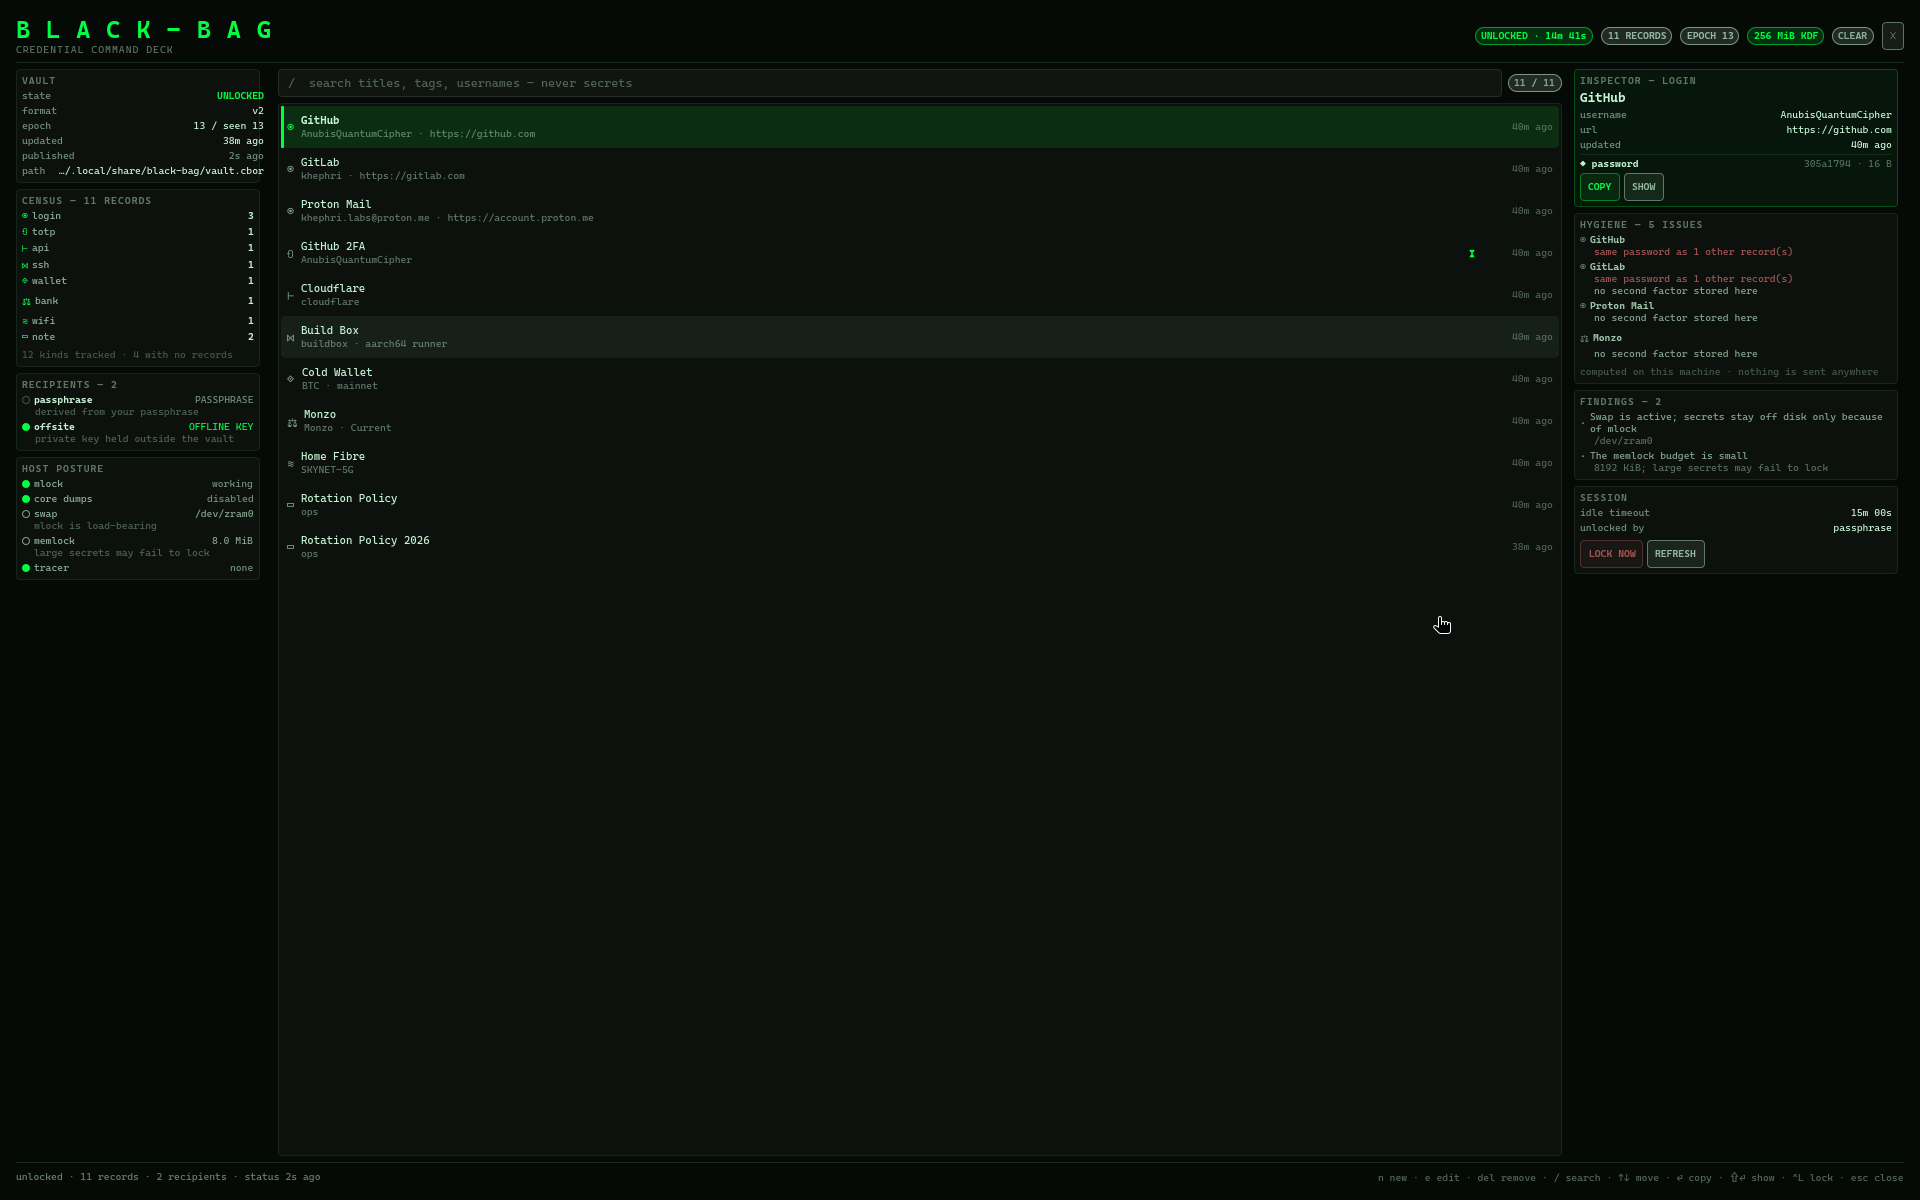
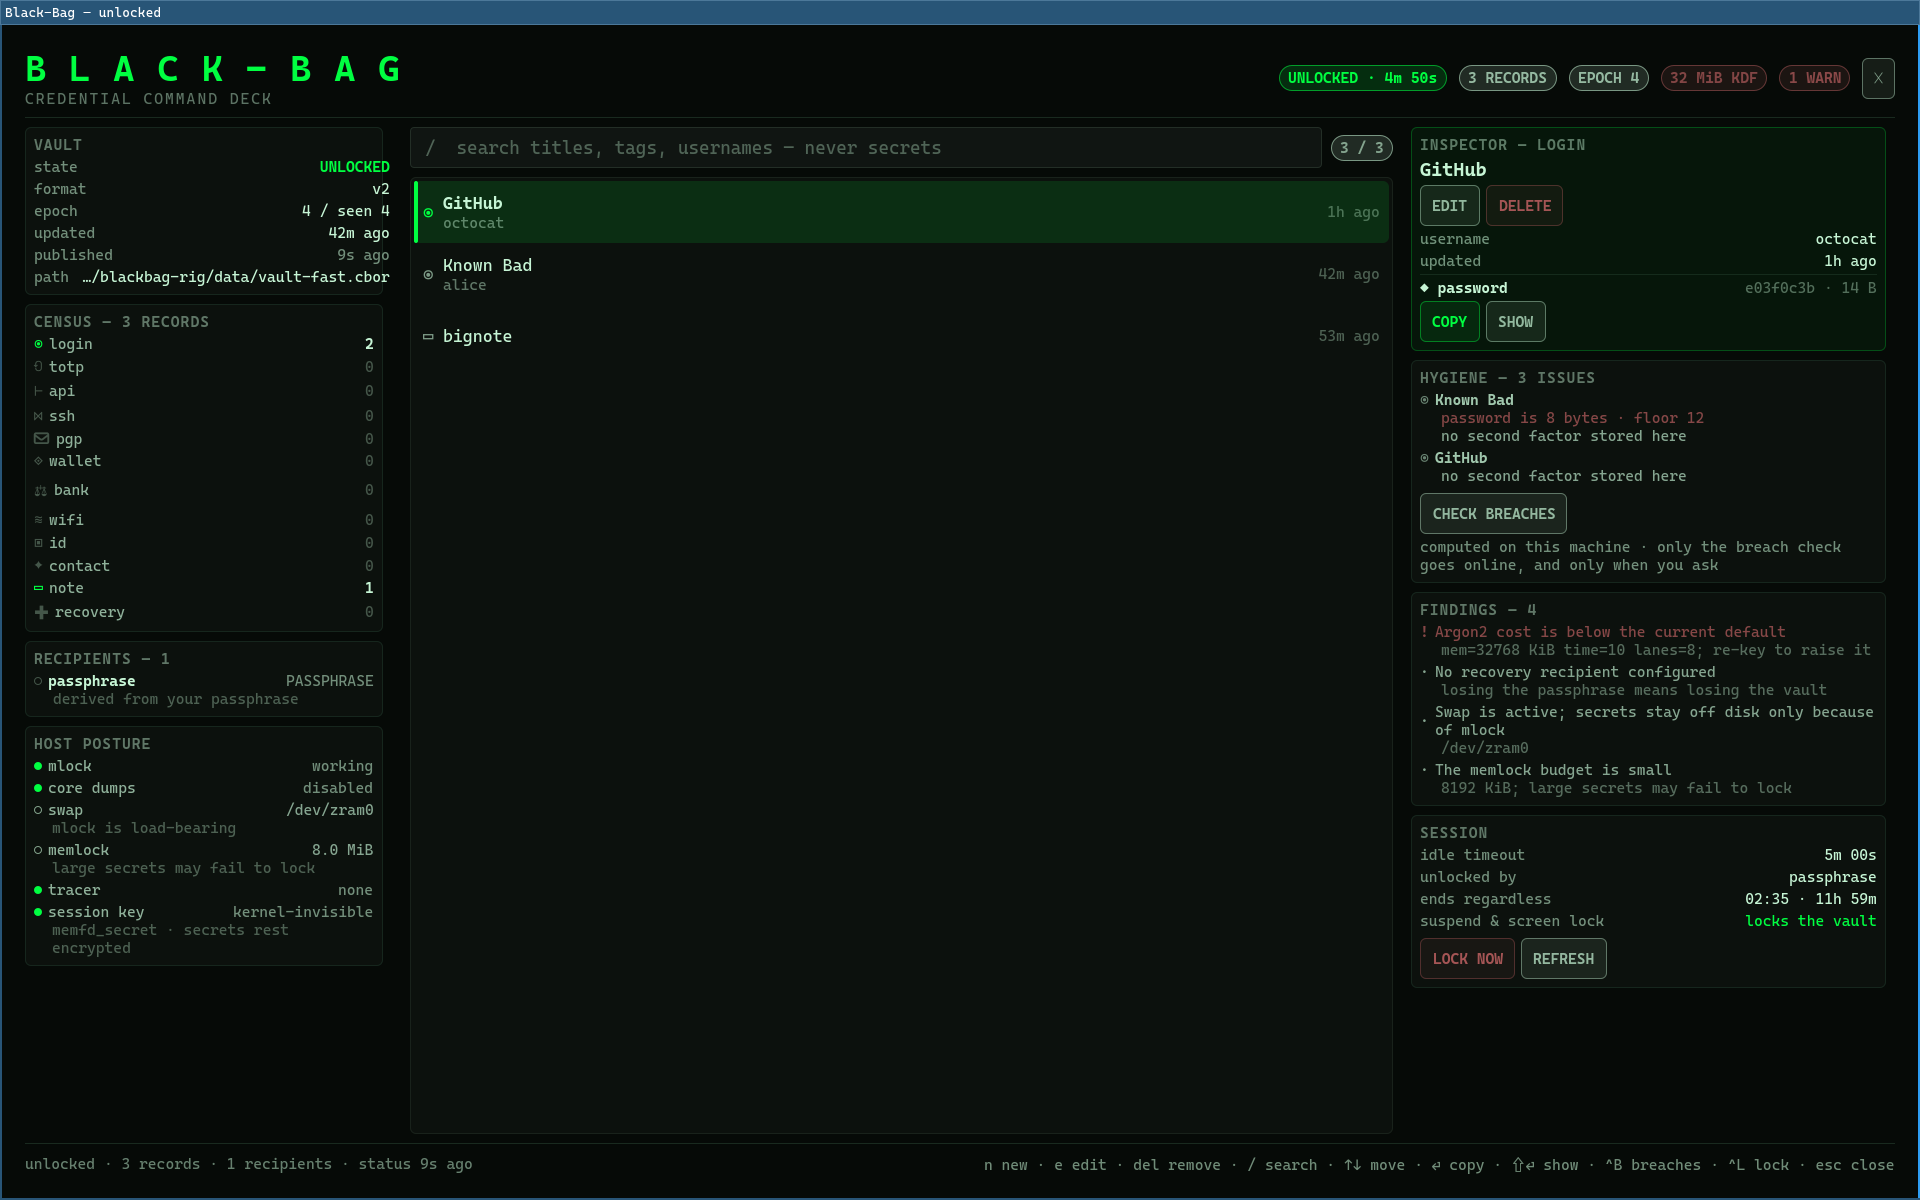
README and SECURITY for 2.5.0; refreshed screenshots
Claude-Session: https://claude.ai/code/session_018xuof8DXvmLCZmByhBvWUA

diff --git a/README.md b/README.md
@@ -74,6 +74,50 @@ anywhere.
 
 ---
 
+## What 2.5.0 changed, and how each item was found
+
+Every one of these came from running the product against itself rather than
+reading it. The full account, with the test that pins each, is in
+[`CHANGELOG.md`](CHANGELOG.md).
+
+**Every resting secret is ciphertext in memory.** Each record field and the
+vault's data key rest sealed under a 32-byte per-process session key. The key
+lives in `memfd_secret` memory — removed from the kernel's own direct map,
+never swapped, never dumped, never in a hibernation image — with a locked page
+as the fallback, and the deck says which you got. Plaintext exists only while a
+field is in use, in a locked arena, and is wiped when the use ends. A test reads
+`/proc/self/mem` across every writable mapping and asserts a resting secret is
+found nowhere. Page-locking every secret was the old design; it had a hole
+(`mlock` is page-granular and not reference-counted, so a neighbour's drop
+unlocked your page), and it fought an 8 MiB budget the new design does not need.
+
+**The clipboard tells the truth.** The old `wl-copy` path never cleared — the
+thread that was going to kill it died with the command — and it offered no
+sensitive hint, so Omarchy's own clipboard history recorded every password in a
+plaintext file. Copies are now served by a detached, memory-locked helper that
+offers `x-kde-passwordManagerHint` beside the text, clears on time only if the
+selection is still ours, and does not say "copied" until the compositor has been
+seen offering the value.
+
+**The vault seals with the machine.** Suspend and `loginctl lock-session` lock
+it through a hand-written minimal D-Bus subscription to logind; Omarchy's own
+screen lock locks it through the shell's lock service. A hard session ceiling
+(12 h by default) ends an unlock however busy it was. A silent socket connection
+can no longer stall the agent.
+
+**Breach checks that keep the hash at home.** `agent breach --online`, or the
+deck's two-step CHECK BREACHES, sends five-character SHA-1 prefixes to Pwned
+Passwords by k-anonymity, fetches the buckets with `curl`, and matches inside
+the agent — which has no network access at all. Exposures fold into the hygiene
+report until lock.
+
+**Import and export.** Bitwarden, KeePassXC, Firefox, Chrome and any CSV in;
+JSON or KeePassXC CSV out, plaintext by declaration and 0600 by construction.
+
+![The breach check, done](docs/screenshots/breach.png)
+
+---
+
 ## What is different from `black-bagg` 0.4.10
 
 **Post-quantum protection that actually protects something.** 0.4.x generated an
@@ -162,8 +206,12 @@ black-bag add login --title GitHub --attr username=octocat
 black-bag list
 black-bag get <uuid> --reveal password --to clipboard
 
-black-bag doctor                     # vault + host posture
+black-bag doctor                     # vault + host posture, including where the session key lives
 black-bag rekey --change-passphrase
+
+black-bag agent breach --online      # k-anonymity check against Pwned Passwords
+black-bag import --from bitwarden.json --format bitwarden --dry-run
+black-bag export --to out.csv --format keepassxc --plaintext-ok
 ```
 
 Coming from `black-bagg`:
@@ -201,8 +249,9 @@ with several numbers and addresses, secure notes, and recovery kits.
 
 ## Credential hygiene
 
-Computed entirely on this machine. There is no network call in this crate and
-adding one would defeat the point.
+Computed on this machine, with one declared exception: the breach check, which
+runs only when you ask, sends only five-character hash prefixes, and runs from
+the CLI through `curl` — the agent process cannot open a network socket.
 
 The interesting one is **reuse detection**. Every secret field carries a
 non-reversible 8-character BLAKE3 handle, domain-separated by field name, so two
@@ -233,17 +282,21 @@ Honest limits, all of which are in the module docs:
 
 - **Left rail** — vault state, format, epoch against the witness, a twelve-kind
   census, recipients (marked by whether their private key is held offline), and
-  host posture: mlock, core dumps, swap, memlock budget, tracer.
+  host posture: mlock, core dumps, swap, memlock budget, tracer, and where the
+  session key lives.
 - **Centre** — the unlock panel when sealed; a searchable record table when open.
   Search covers titles, tags, and usernames, and by construction cannot reach
   secrets.
-- **Right rail** — inspector for the selected record, findings worst-first, and
-  session controls. TOTP codes come with a countdown arc that turns red in the
-  last five seconds.
+- **Right rail** — inspector for the selected record, hygiene worst-first with
+  the two-step breach check, findings, and the session: idle timeout, the hour
+  the session ends regardless, why it last locked, and whether suspend and the
+  screen lock are being watched. TOTP codes come with a countdown arc that turns
+  red in the last five seconds.
 
 Keys: `n` new · `e` edit · `Del` remove · `/` search · `↑↓` move · `⏎` copy ·
-`⇧⏎` show · `^L` lock · `Esc` close. In the editor: `Tab` moves · `^G` generates
-· `^⏎` saves · `Esc` cancels.
+`⇧⏎` show · `^B` breaches · `^L` lock · `Esc` close. In the editor: `Tab` moves
+· `^G` generates · `^⏎` saves · `Esc` cancels. Every button takes `Tab` focus
+and answers `Space` or `Enter`.
 
 ### Where secrets are, and are not
 
@@ -252,8 +305,8 @@ Keys: `n` new · `e` edit · `Del` remove · `/` search · `↑↓` move · `⏎
 | `status.json` in `$XDG_RUNTIME_DIR` | **Never.** No titles, tags, counts, or values — only posture, parameters, recipient labels, and lock state. There is a test that asserts this. |
 | Bar widget | Never. Reads only `status.json`. |
 | Cockpit | Only during an explicit `SHOW`, on a visible countdown, then cleared. `COPY` goes straight to the clipboard and never renders. |
-| Agent | Holds the data key in page-locked memory while unlocked, behind a `0600` socket in a `0700` directory, with `SO_PEERCRED` checked on every connection. |
-| Clipboard | For the configured interval (30 s default), then wiped. |
+| Agent | Holds the data key and every record sealed under a session key that lives in `memfd_secret` memory, behind a `0600` socket in a `0700` directory, with `SO_PEERCRED` checked and a 3-second budget on every connection. |
+| Clipboard | For the configured interval (30 s default), offered with the sensitive hint so clipboard managers skip it, then cleared — unless something else has been copied since, which is left alone. |
 
 The record *metadata* the cockpit shows arrives over the agent socket and lives
 in the shell's memory, never on disk. Secret fields are shown as a name, a size,
@@ -266,8 +319,16 @@ a password without either being displayed.
 
 - **The witness is a tripwire.** It catches restored backups, sync conflicts, and
   snapshot rollbacks. It does not stop an attacker who can write both files.
-- **`mlock` is best-effort.** This box allows 8 MiB (2048 pages). Failures are
-  reported in `doctor` and the cockpit rather than swallowed.
+- **The session key's home is reported, not assumed.** `memfd_secret` where the
+  kernel offers it, a locked page otherwise, and "unlocked" — loudly — if even
+  that failed. Secret memory blocks hibernation system-wide while it is held;
+  `BLACK_BAG_NO_SECRETMEM=1` opts out.
+- **The breach check is the one thing that goes online.** It sends
+  five-character hash prefixes and nothing else, and only when asked. Nothing
+  else in this program opens a network socket, and the agent's unit forbids it.
+- **The sleep watcher takes no inhibitor lock.** The vault locks as soon as the
+  agent is scheduled after logind's signal — milliseconds — but "before the
+  kernel sleeps" is not guaranteed.
 - **The host can still betray you.** Core dumps are disabled for our own process,
   but `core_pattern` on this machine pipes to systemd-coredump for everything
   else, and zram swap is active. The cockpit shows both rather than claiming

diff --git a/SECURITY.md b/SECURITY.md
@@ -32,6 +32,14 @@ Particularly interesting:
 - Reaching the agent socket as a different user.
 - A generated password with less entropy than the generator reports.
 - Hygiene reporting reuse that is not reuse, or missing reuse that is.
+- A resting secret's plaintext appearing in the process's writable memory
+  while the vault is unlocked and the field is not in use.
+- A copied secret offered without the sensitive hint, or surviving its clear
+  while the selection is still ours.
+- The agent process opening any network socket, or the breach check sending
+  more than five-character SHA-1 prefixes.
+- The vault staying unlocked across a suspend or a session lock the agent was
+  told about.
 
 ## What is out of scope
 
@@ -45,8 +53,12 @@ assumes them will be closed as working-as-documented:
 - The witness file being editable by someone who can already rewrite the vault.
   It is a tripwire against restored backups and sync accidents, not an
   authenticated anti-rollback mechanism, and the documentation says so.
-- `mlock` failing on a host with no memory-lock budget. This is reported rather
-  than silently swallowed, which is the intended behaviour.
+- `memfd_secret` or `mlock` being unavailable on a host. Both are reported
+  rather than silently swallowed, which is the intended behaviour.
+- A clipboard manager that ignores `x-kde-passwordManagerHint`, or a compositor
+  that re-offers the selection without it (GNOME's does). The hint is a
+  convention the desktop honours or does not; Black-Bag offers it correctly.
+- A paste target keeping its own copy of what was pasted into it.
 
 ## Supported versions
 
